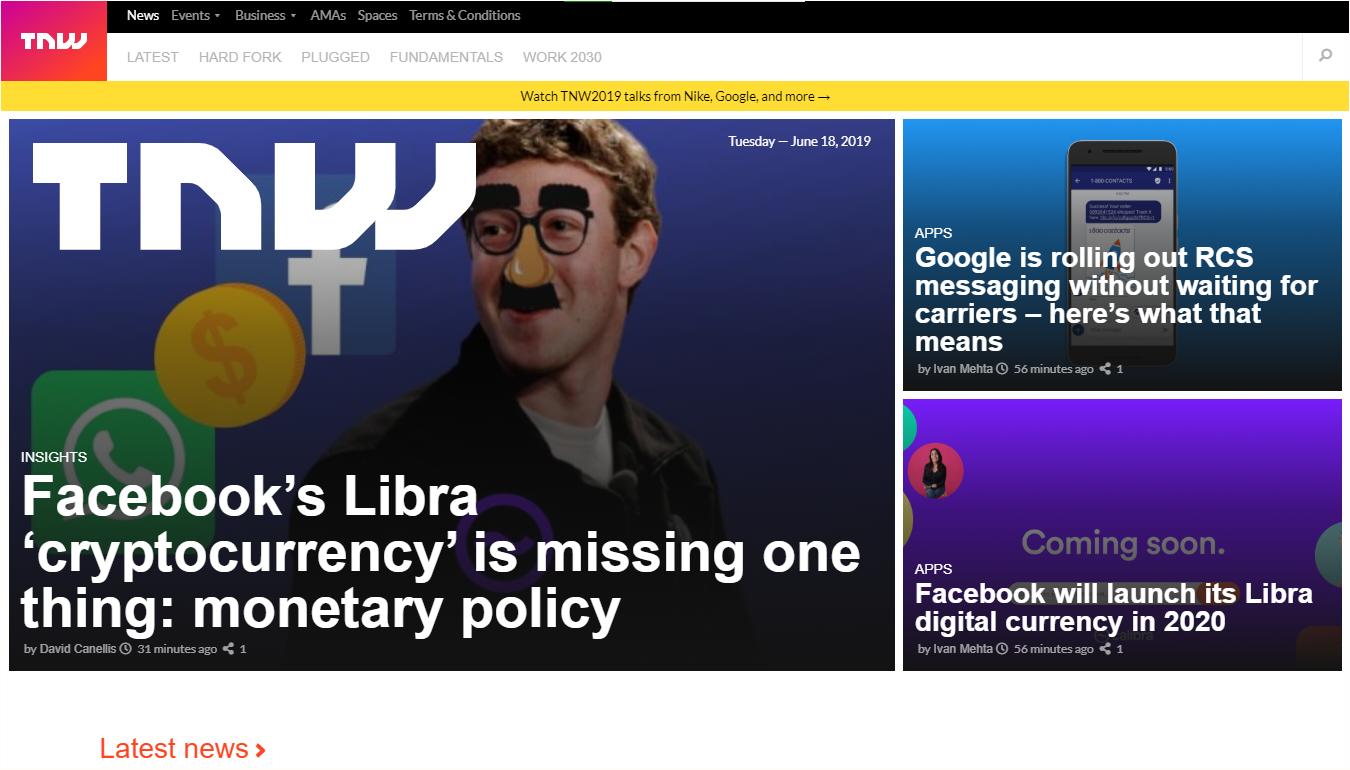
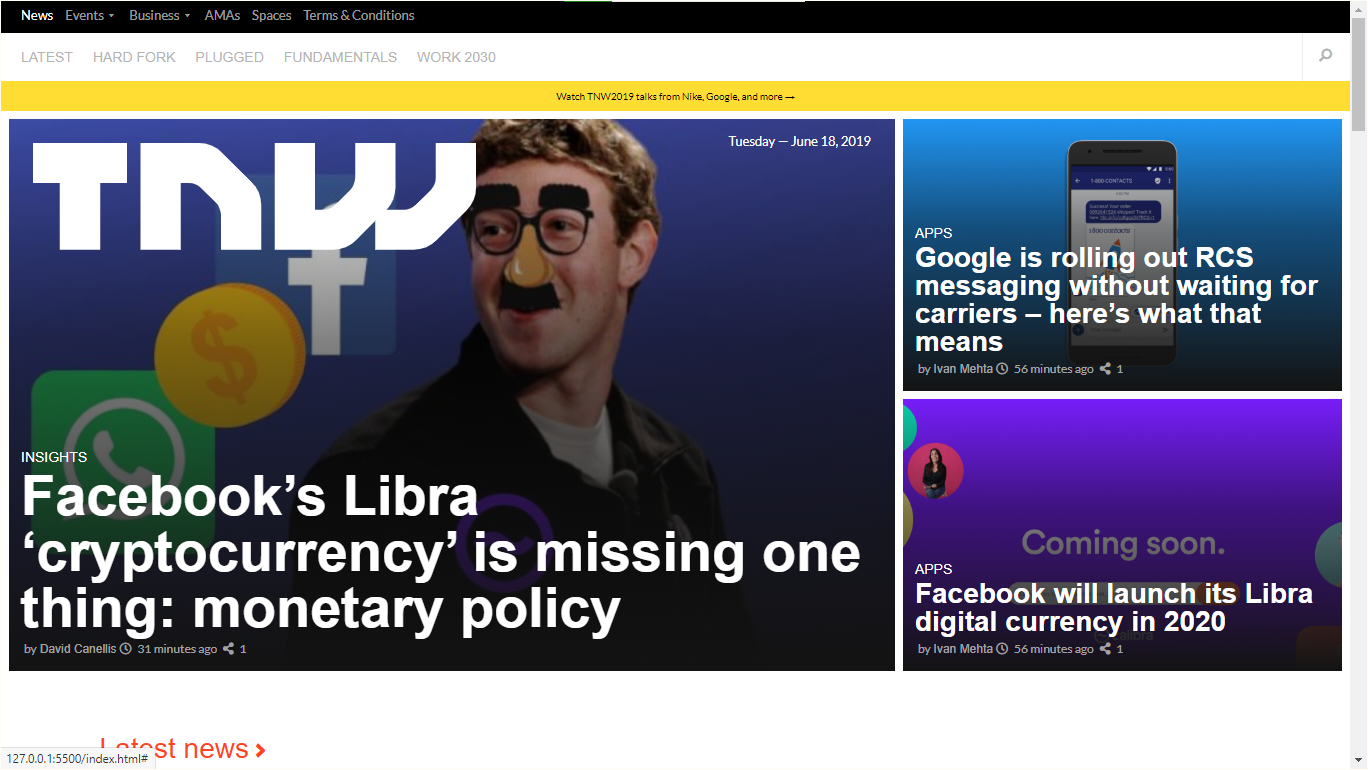
added the screenshoot and fixed some more of stylelint errors

diff --git a/reset.css b/reset.css
@@ -1,8 +1,7 @@
-/* http://meyerweb.com/eric/tools/css/reset/ 
+/* http://meyerweb.com/eric/tools/css/reset/
    v2.0 | 20110126
    License: none (public domain)
 */
-
 html,
 body,
 div,
@@ -87,10 +86,11 @@ video {
   margin: 0;
   padding: 0;
   border: 0;
-  font-size: 100%;
   font: inherit;
+  font-size: 100%;
   vertical-align: baseline;
 }
+
 /* HTML5 display-role reset for older browsers */
 article,
 aside,
@@ -105,24 +105,29 @@ nav,
 section {
   display: block;
 }
+
 body {
   line-height: 1;
 }
+
 ol,
 ul {
   list-style: none;
 }
+
 blockquote,
 q {
   quotes: none;
 }
-blockquote:before,
-blockquote:after,
-q:before,
-q:after {
+
+blockquote::before,
+blockquote::after,
+q::before,
+q::after {
   content: "";
   content: none;
 }
+
 table {
   border-collapse: collapse;
   border-spacing: 0;

diff --git a/main.css b/main.css
@@ -827,6 +827,7 @@ footer {
   .wrapper section header {
     grid-column: span 4;
   }
+
   .news-deals > div {
     display: block;
     padding: 0;
@@ -869,5 +870,4 @@ footer {
     column-gap: 24px;
     row-gap: 48px;
   }
-
 }
